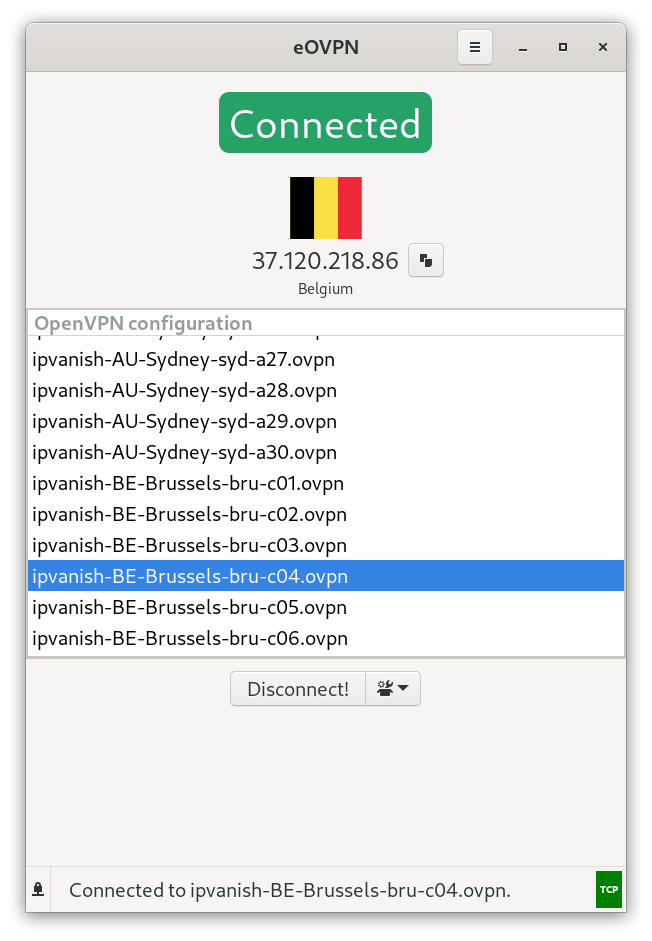
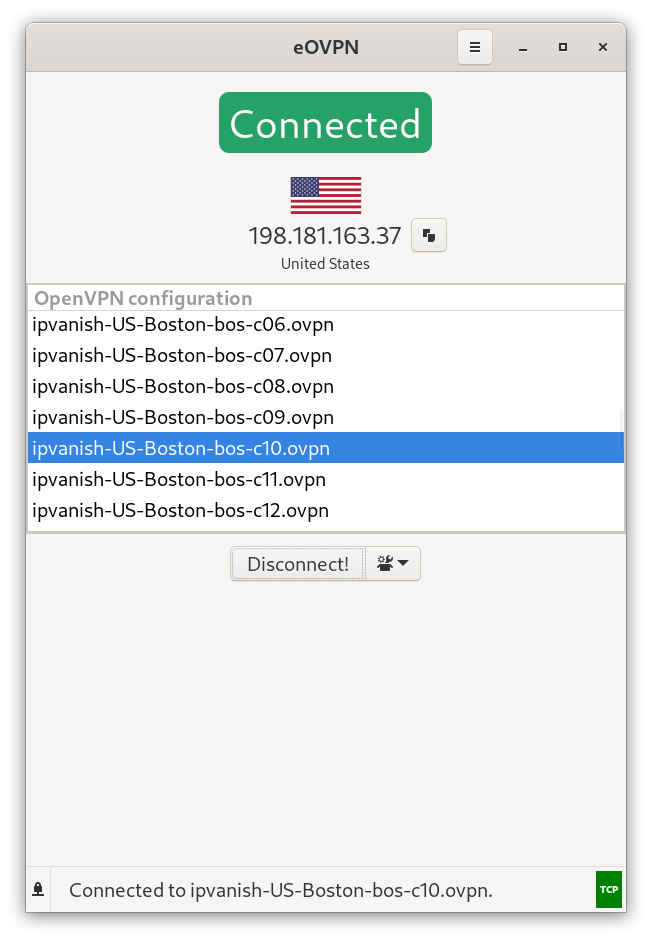
UI and meta changes
- Reset GtkPaned position on reset.
- update screenshots.
- update translatons.
- update README

Changed region(s): [[0.0307, 0.1849, 0.9816, 0.7396], [0.3988, 0.9245, 0.7669, 0.9554]]

diff --git a/eovpn/settings_window.py b/eovpn/settings_window.py
@@ -9,7 +9,7 @@ import re
 import os
 from os import path
 import time
-from gi.repository import GLib, Gtk
+from gi.repository import GLib, Gtk, Gio
 from urllib.parse import urlparse
 import shutil
 import gettext
@@ -53,6 +53,7 @@ class SettingsWindowSignalHandler(SettingsManager):
         main_builder = self.get_builder("main.glade")
         self.config_storage = main_builder.get_object("config_storage")
         self.menu_view_config = main_builder.get_object("view_config")
+        self.paned = main_builder.get_object("main_paned")
 
         self.save_btn = self.builder.get_object("settings_apply_btn")
         self.save_btn.set_sensitive(False)
@@ -189,6 +190,11 @@ class SettingsWindowSignalHandler(SettingsManager):
         #remove config from liststorage
         self.config_storage.clear()
         self.menu_view_config.hide()
+
+        #remote GtkPaned size from Gsetting.
+        settings = Gio.Settings.new(self.APP_ID)
+        settings.reset("treeview-height")
+        self.paned.set_position(250)
 
         self.remote_addr_entry.set_text("")
 

diff --git a/eovpn/main_window.py b/eovpn/main_window.py
@@ -75,12 +75,12 @@ class MainWindowSignalHandler(SettingsManager):
         #load_settings
         self.settings = Gio.Settings.new(self.APP_ID)
         paned_height = self.settings.get_int("treeview-height")
-        logger.debug("paned_height={}".format(paned_height))
         
         if paned_height != -1:
             self.paned.set_position(paned_height)
         else:
-            self.paned.set_position(350)
+            self.paned.set_position(250)
+        logger.debug("GtkPaned position={}".format(self.paned.get_position()))
         
         #connect_prefs
         self.connect_prefs = self.builder.get_object("connect_prefs")

diff --git a/eovpn/eovpn_base.py b/eovpn/eovpn_base.py
@@ -25,7 +25,7 @@ class Base:
     def __init__(self):
         self.APP_NAME = "eOVPN"
         self.APP_ID = "com.github.jkotra.eovpn"
-        self.APP_VERSION = "0.15"
+        self.APP_VERSION = "0.16"
         self.AUTHOR = "Jagadeesh Kotra"
         self.AUTHOR_MAIL = "jagadeesh@stdin.top"
         self.AUTHOR_MAIL_SECONDARY = "jagadeesh.01101011@gmail.com"

diff --git a/README.md b/README.md
@@ -13,6 +13,8 @@
 
 <a href='https://flathub.org/apps/details/com.github.jkotra.eovpn'><img height='50' alt='Download on Flathub' src='https://flathub.org/assets/badges/flathub-badge-en.png'/></a>
 
+<a href="https://www.buymeacoffee.com/jkotra"><img src="https://img.buymeacoffee.com/button-api/?text=Buy me a coffee&emoji=&slug=jkotra&button_colour=FFDD00&font_colour=000000&font_family=Lato&outline_colour=000000&coffee_colour=ffffff"></a>
+
 ---
 
 ## Setup
